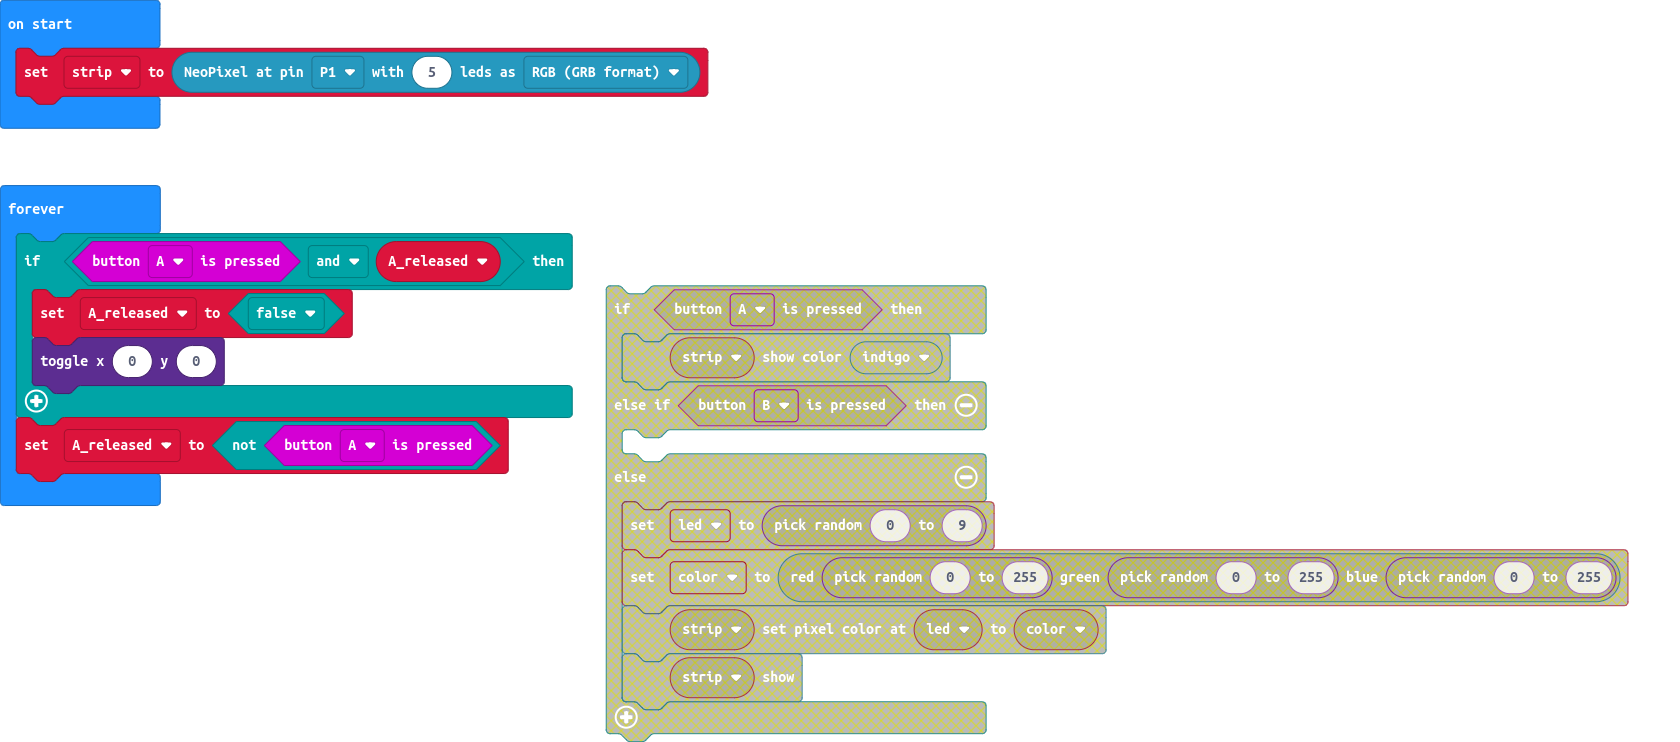
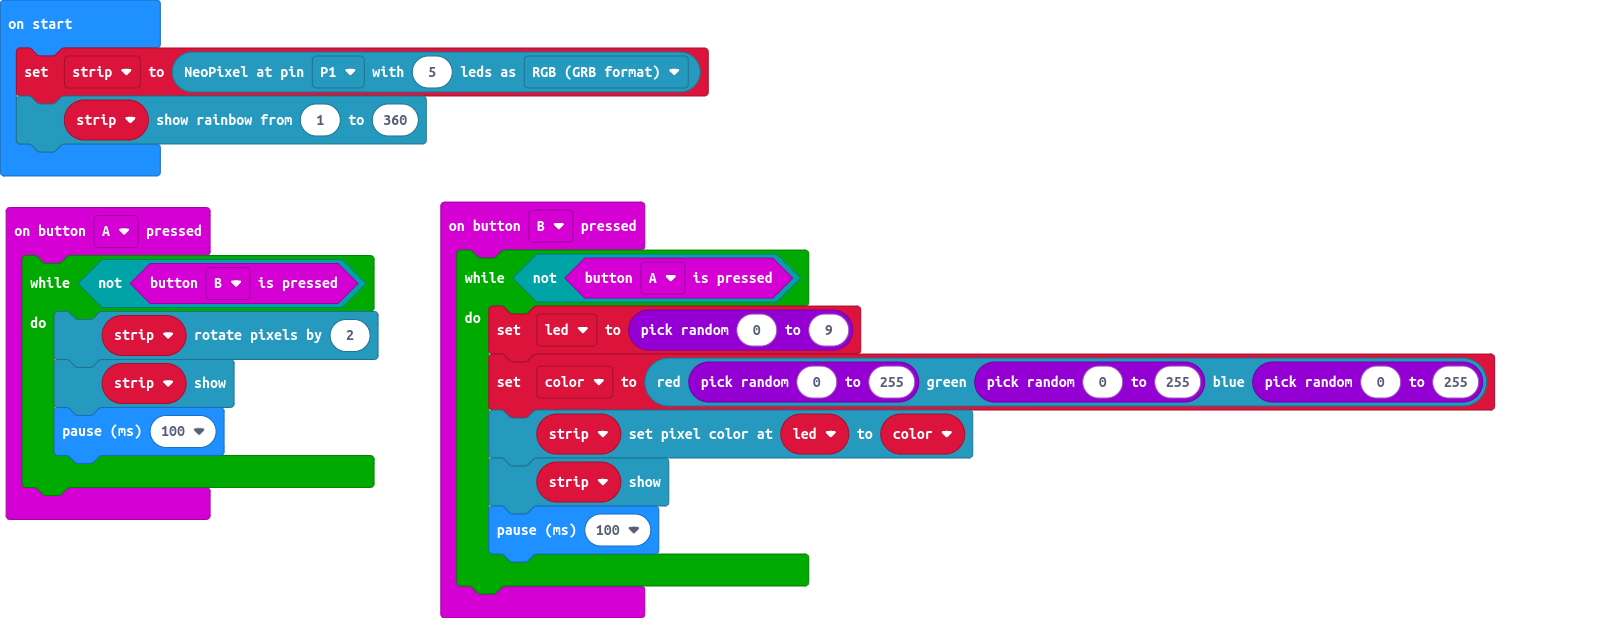
toggle buttons A B

diff --git a/main.ts b/main.ts
@@ -1,9 +1,21 @@
-let A_released = false
-let strip = neopixel.create(DigitalPin.P1, 5, NeoPixelMode.RGB)
-basic.forever(function () {
-    if (input.buttonIsPressed(Button.A) && A_released) {
-        A_released = false
-        led.toggle(0, 0)
+input.onButtonPressed(Button.A, function () {
+    while (!(input.buttonIsPressed(Button.B))) {
+        strip.rotate(2)
+        strip.show()
+        basic.pause(100)
     }
-    A_released = !(input.buttonIsPressed(Button.A))
 })
+input.onButtonPressed(Button.B, function () {
+    while (!(input.buttonIsPressed(Button.A))) {
+        led2 = randint(0, 9)
+        color = neopixel.rgb(randint(0, 255), randint(0, 255), randint(0, 255))
+        strip.setPixelColor(led2, color)
+        strip.show()
+        basic.pause(100)
+    }
+})
+let color = 0
+let led2 = 0
+let strip: neopixel.Strip = null
+strip = neopixel.create(DigitalPin.P1, 5, NeoPixelMode.RGB)
+strip.showRainbow(1, 360)
